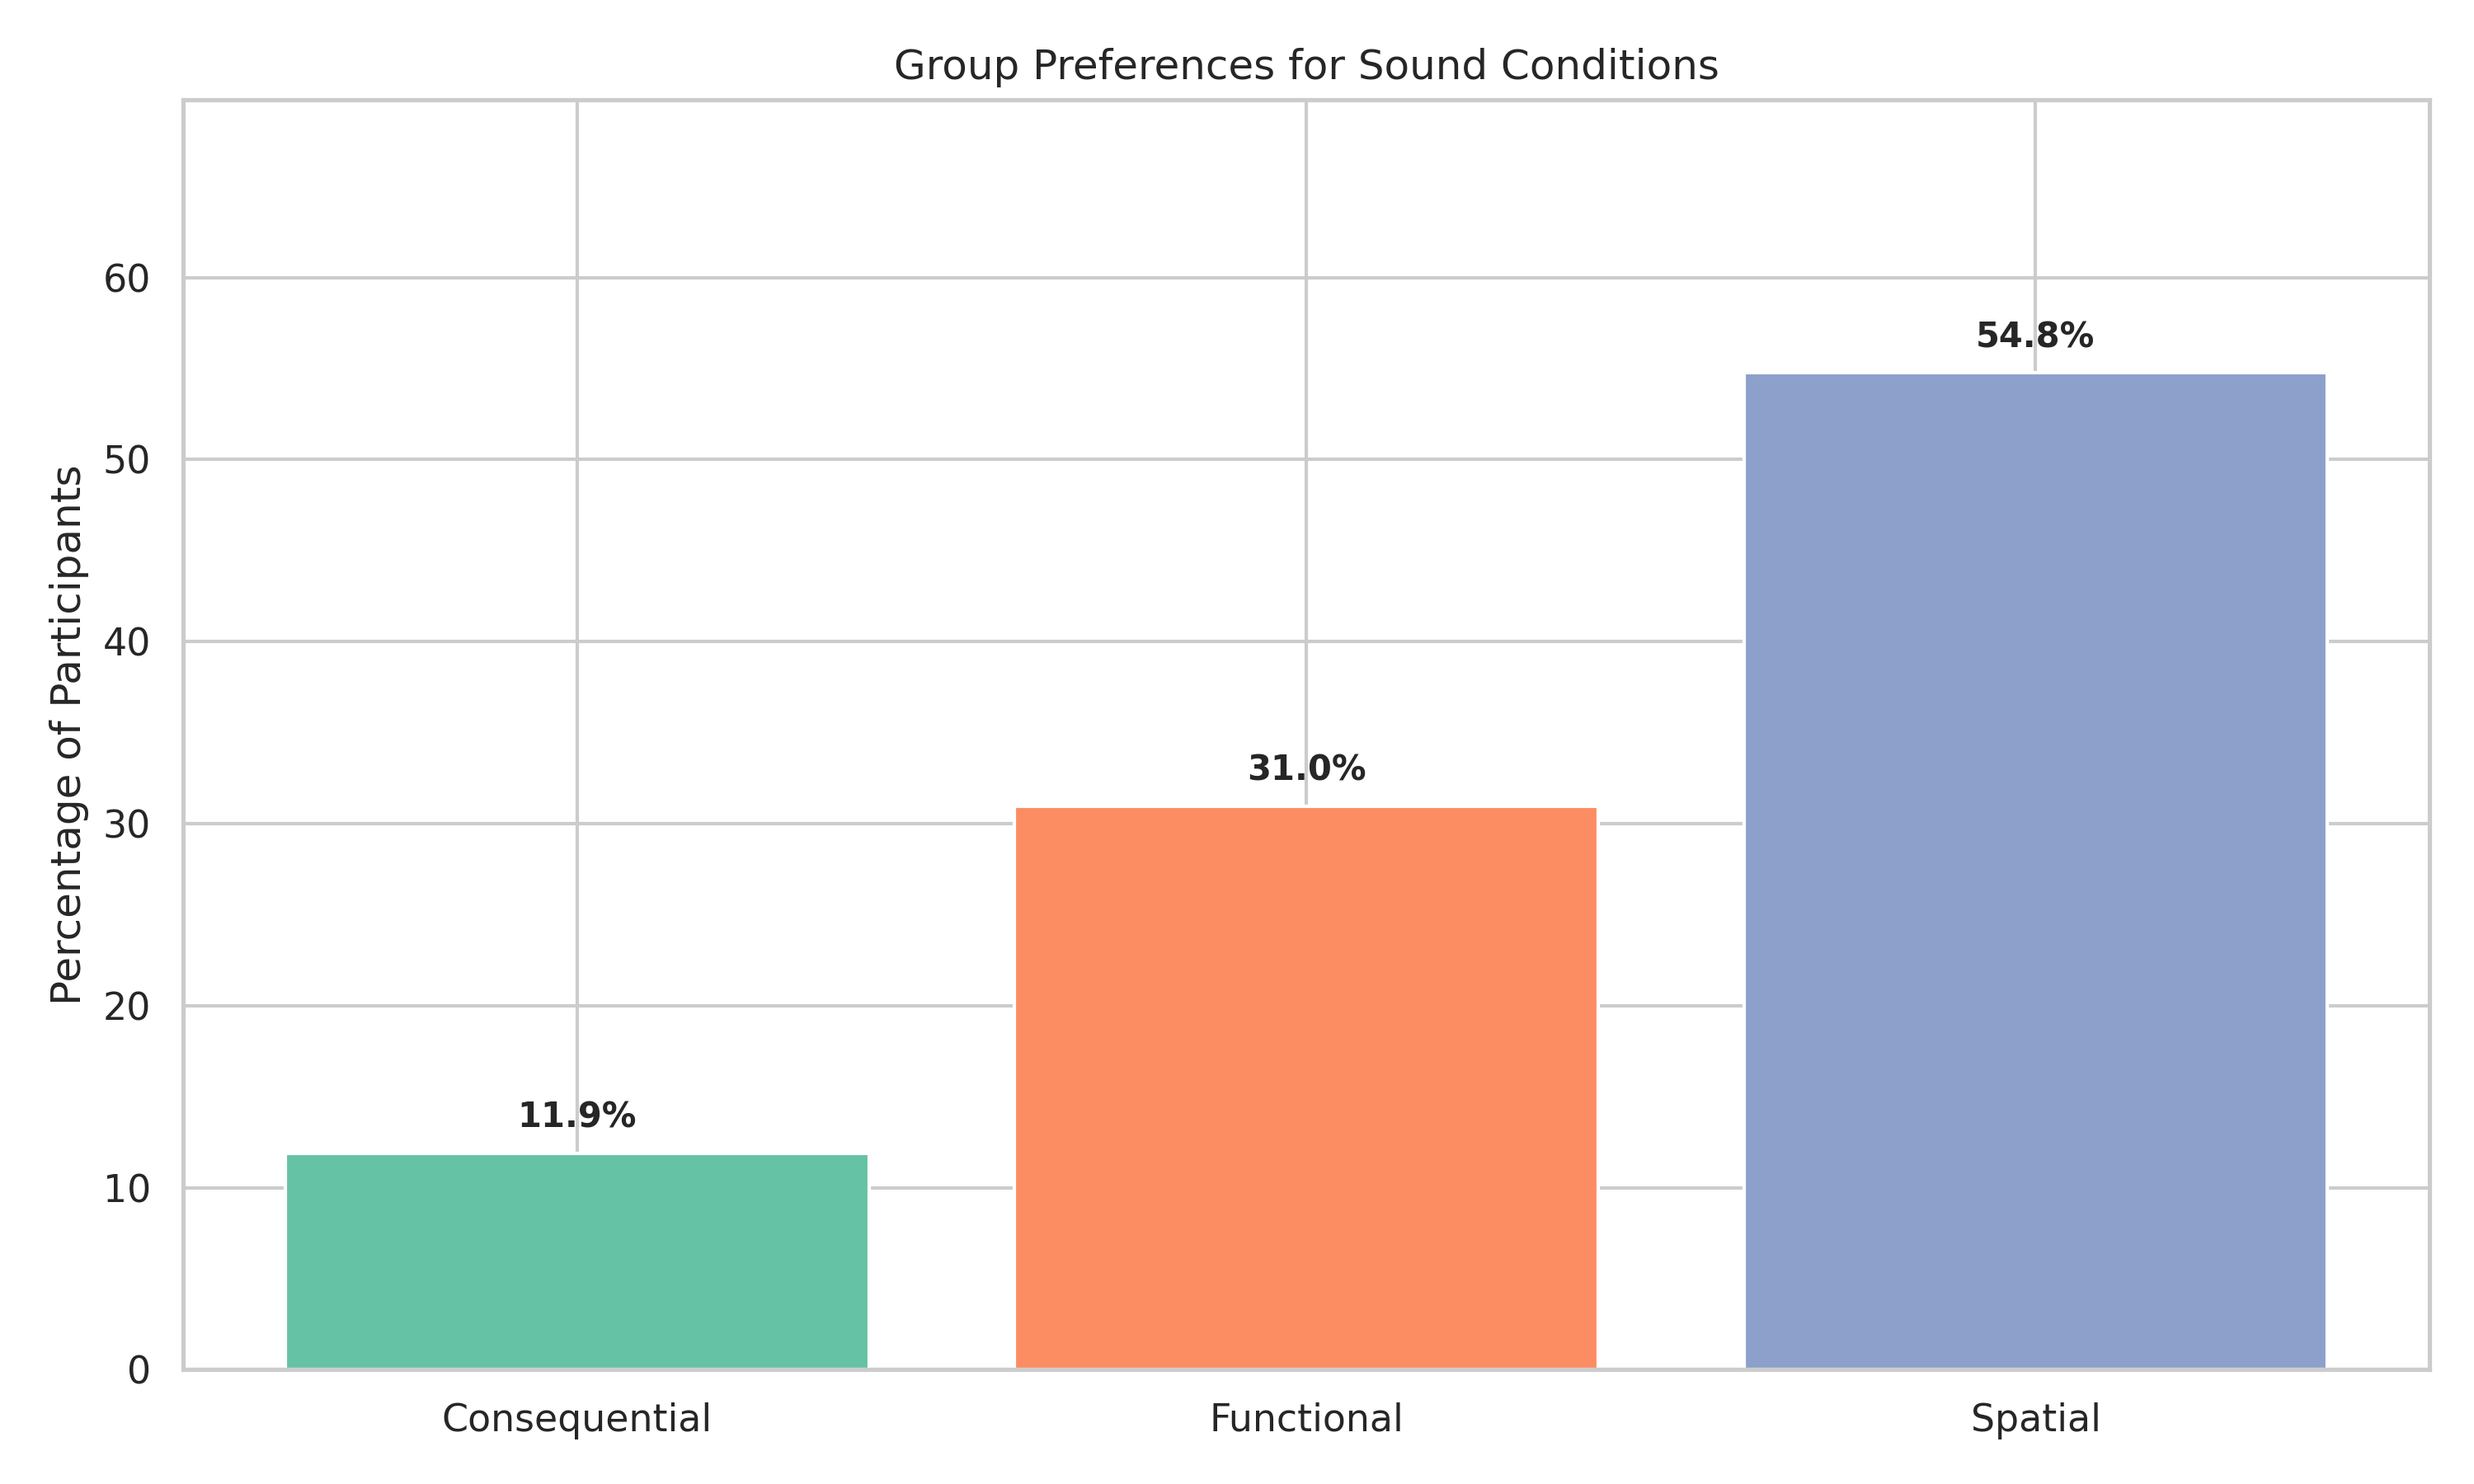
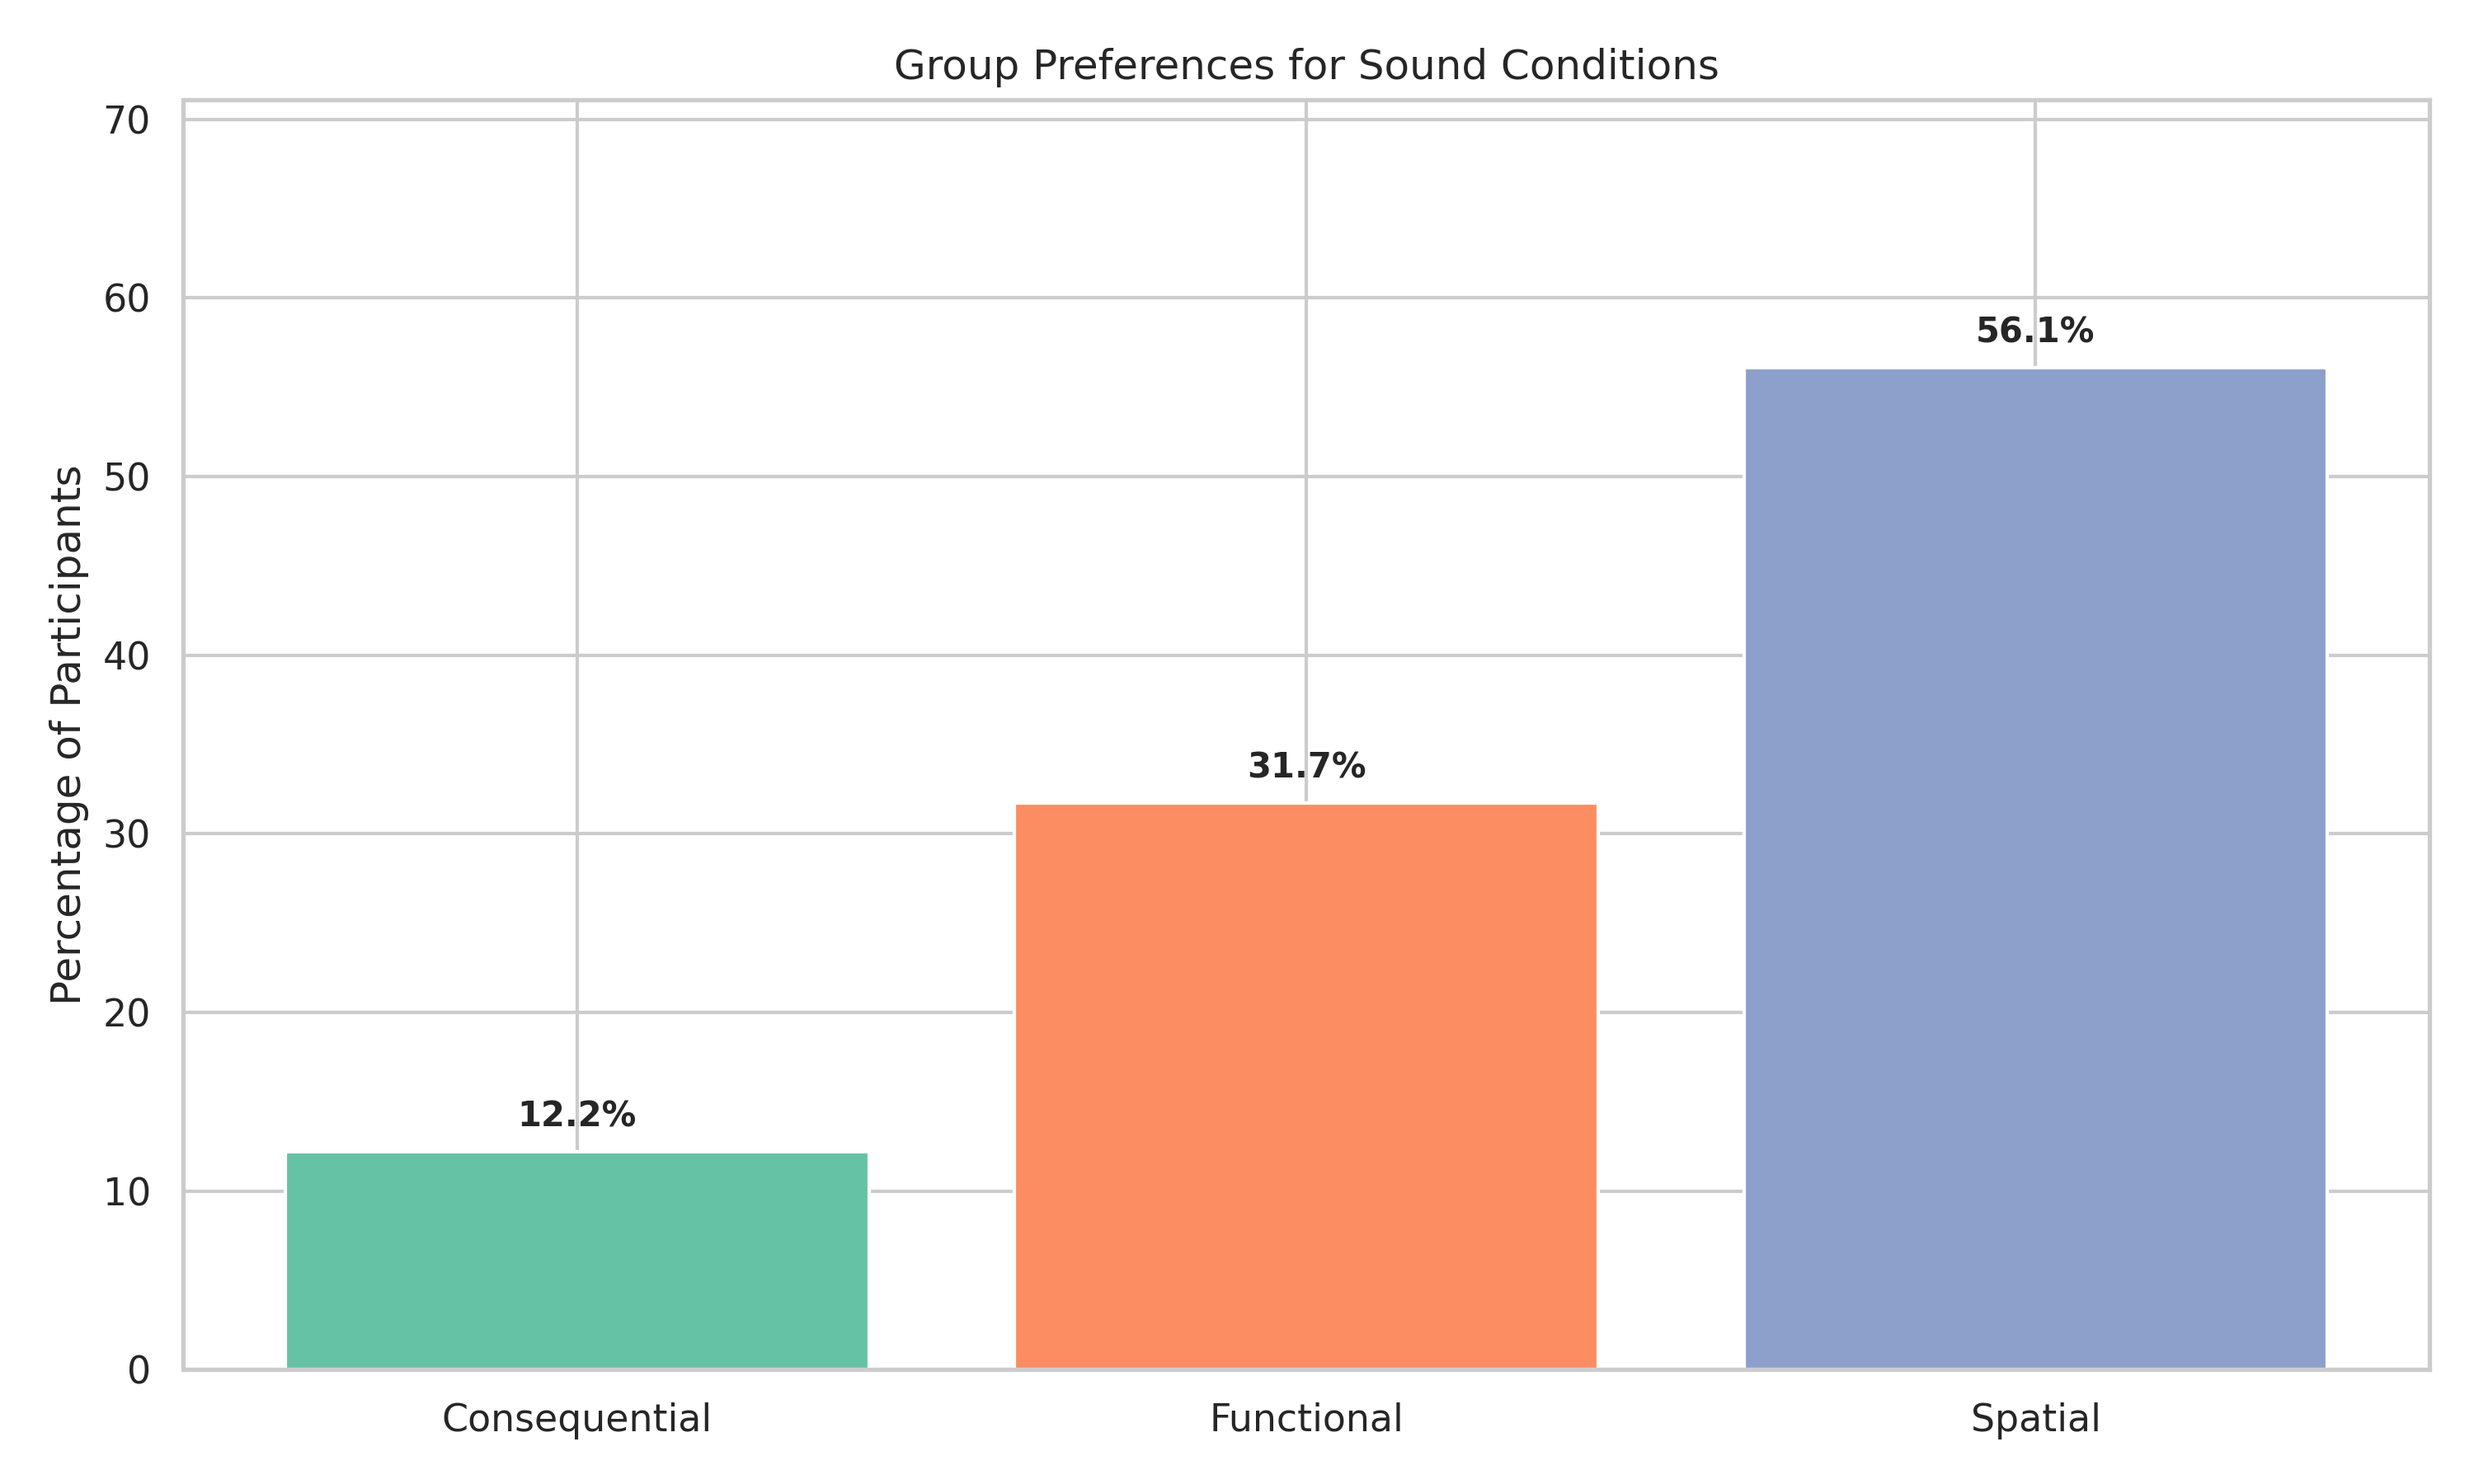
more qual results

diff --git a/index.html b/index.html
@@ -685,8 +685,8 @@
         </div>
         <div class="column has-text-centered">
           <img src="./static/images/part_3_rosas_box_whisker_excl_means.png"
-                class="part2-results-image"
-                alt="Part 2 results image."/>
+                class="part3-results-image"
+                alt="Part 3 results image."/>
           <p class="is-bold">Box-and-whisker plots illustrating participant responses across the three experimental 
             conditions and three attribute scales in Experiment C. Statistical significance from 
             exploratory paired comparisons is indicated by asterisks above brackets (*corresponds to p &lt; 0.05). (N = 41)</p>
@@ -716,6 +716,27 @@
 
           </p>
         </div>
+        <div class="column has-text-centered">
+          <img src="./static/images/part_3_likert_stacked_bar.png"
+                class="part3-results-image"
+                alt="Part 3 results image."/>
+          <p class="is-bold">Likert responses for the augmented sound conditions.</p>
+        </div>
+        <div class="column has-text-centered">
+          <img src="./static/images/part_3_table.PNG"
+                class="part3-results-image"
+                alt="Part 3 results image."/>
+          <!-- <p class="is-bold">Thematic.</p> -->
+        </div>
+        <div class="column has-text-centered">
+          <img src="./static/images/part_3_sound_condition_preferences.png"
+                class="part3-results-image"
+                alt="Part 3 results image."/>
+          <!-- <p class="is-bold">Thematic.</p> -->
+        </div>
+        <!-- <p>
+            Additonal qualitative analyses of the post-experiment survey responses revealed that participants generally
+          </p> -->
         <!--/ Results. -->
       </div>
     </div>
